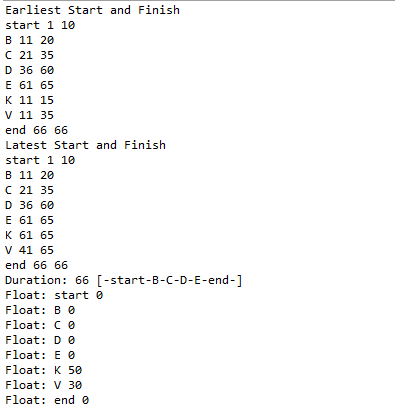
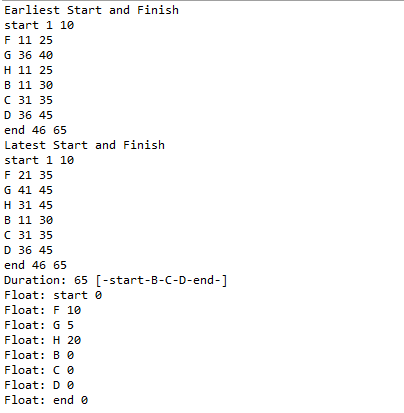
Upload3

Changed region(s): [[0.0, 0.0, 0.638, 0.9879]]

diff --git a/src/main/java/CriticalPath/CP/App.java b/src/main/java/CriticalPath/CP/App.java
@@ -59,22 +59,22 @@ public class App {
 
 	public static void addTasks() {
 
-		Task end = new Task(1, "end", null); // it is required to be named as "end" because in the setup class we use the "end" string to make sure we set the values before we calculate "latest" values.
-		Task task_e = new Task(5, "E", new Task[] { end });
-		Task task_d = new Task(25, "D", new Task[] { task_e });
-		Task task_c = new Task(15, "C", new Task[] { task_d });
-		Task task_b = new Task(10, "B", new Task[] { task_c });
-		Task task_k = new Task(5, "K", new Task[] { end });
-		Task task_v = new Task(25, "V", new Task[] {end});
-		Task start = new Task(10, "start", new Task[] { task_b, task_k, task_v }); // same as "end" just for "earliest" values
+		Task end = new Task(20, "end", null); // it is required to be named as "end" because in the setup class we use the "end" string to make sure we set the values before we calculate "latest" values.
+		Task task_d = new Task(10, "D", new Task[] { end });
+		Task task_g = new Task(5, "G", new Task[] {end});
+		Task task_c = new Task(5, "C", new Task[] { task_d, task_g });
+		Task task_b = new Task(20, "B", new Task[] { task_c });
+		Task task_h = new Task(15, "H", new Task[] { end });
+		Task task_f = new Task(15, "F", new Task[] {task_g});
+		Task start = new Task(10, "start", new Task[] { task_b, task_h, task_f }); // same as "end" just for "earliest" values
 
 		tasks.add(start);
+		tasks.add(task_f);
+		tasks.add(task_g);
+		tasks.add(task_h);
 		tasks.add(task_b);
 		tasks.add(task_c);
 		tasks.add(task_d);
-		tasks.add(task_e);
-		tasks.add(task_k);
-		tasks.add(task_v);
 		tasks.add(end);
 	}
 }
